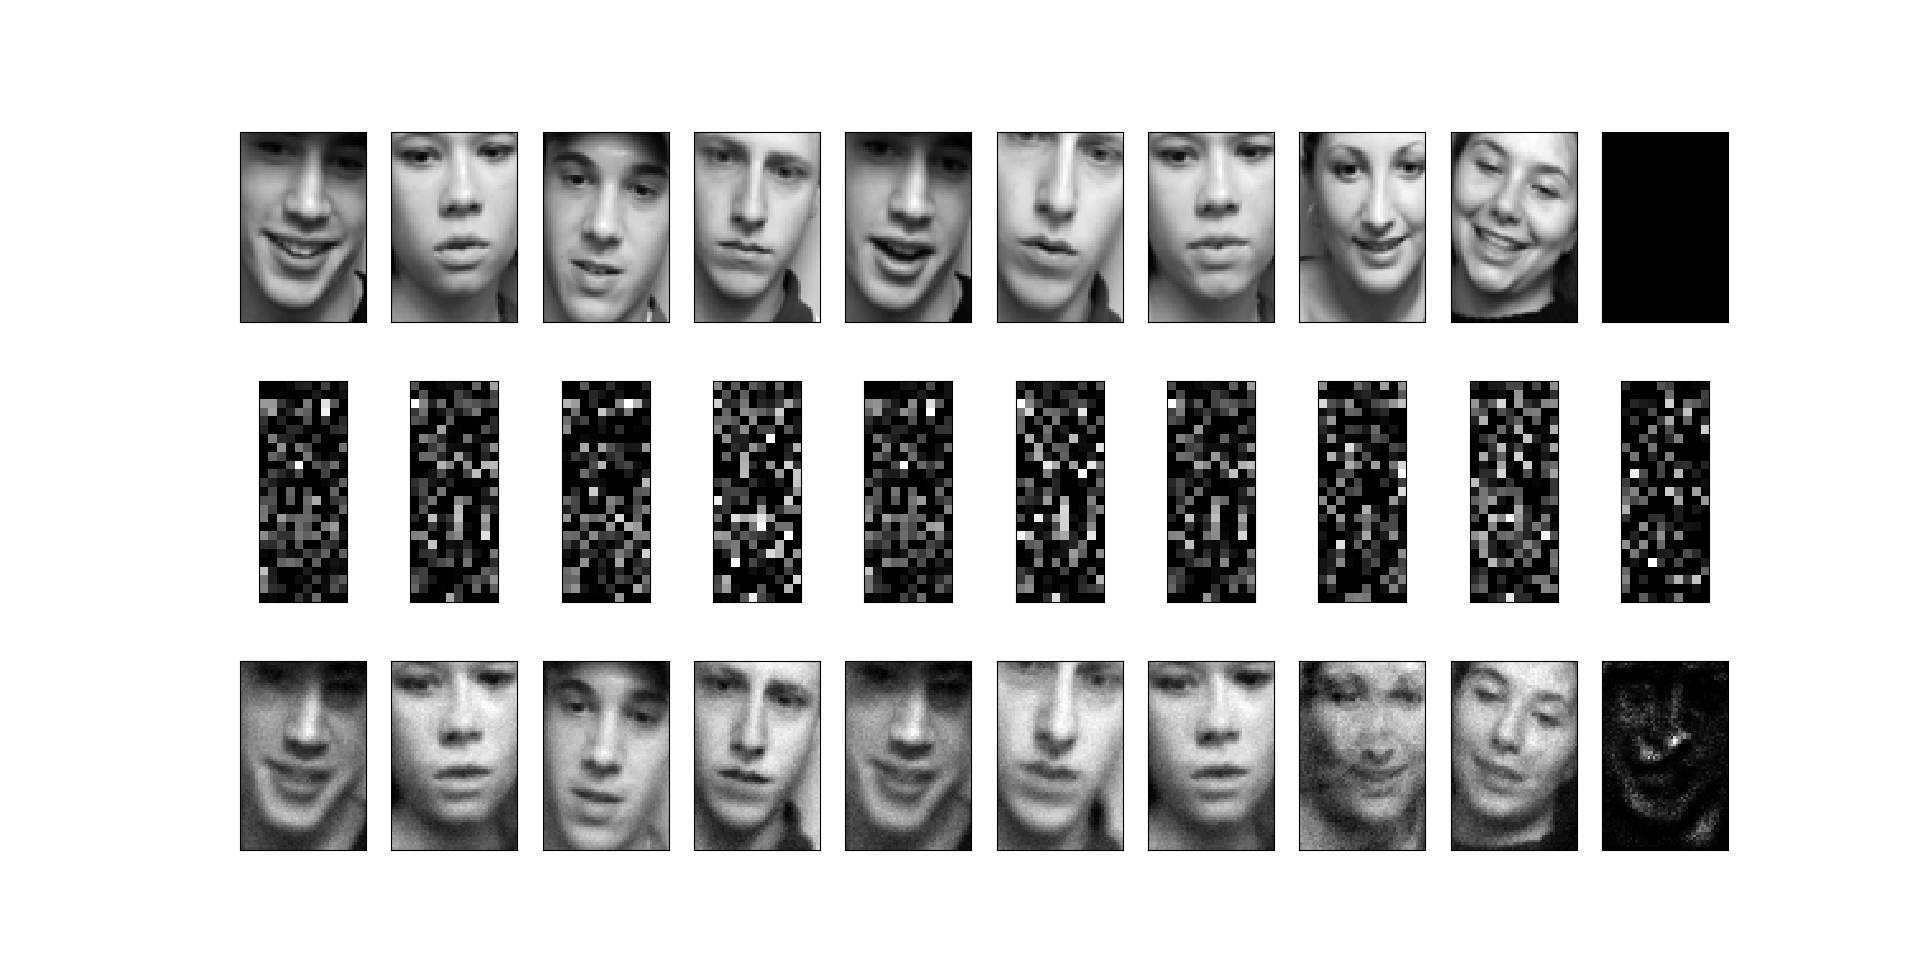
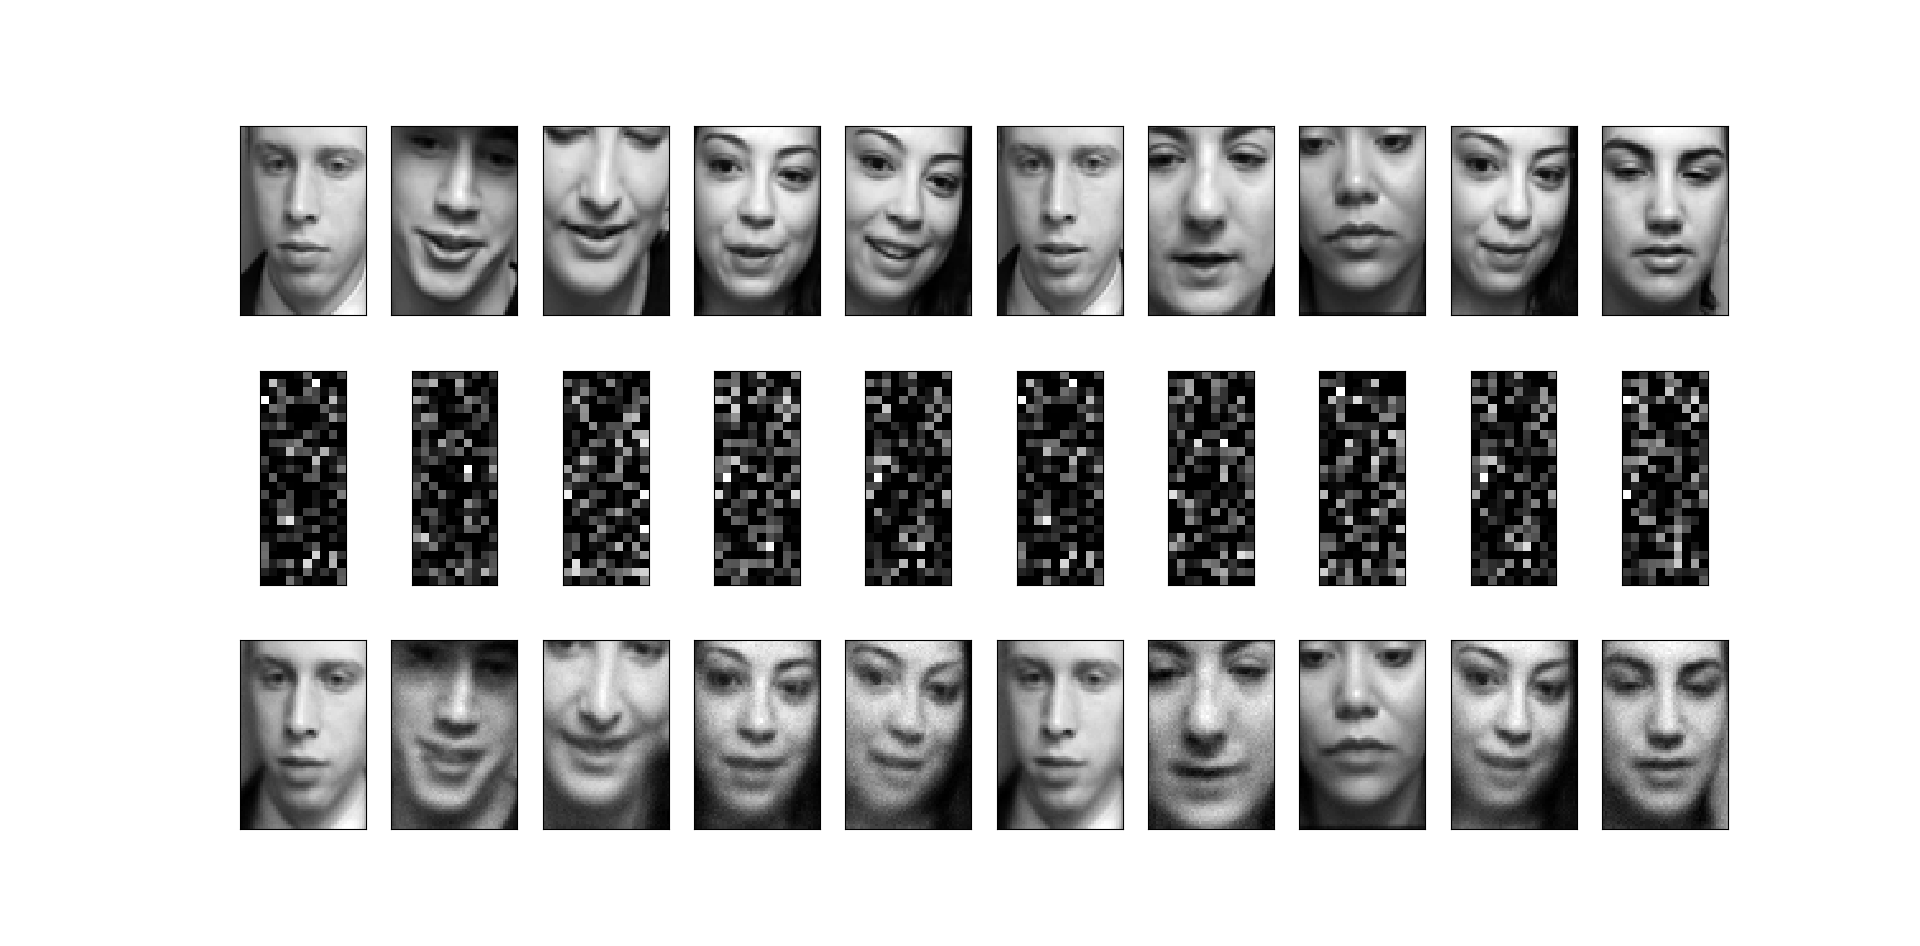
contiguous frames

diff --git a/src/autoencoder.py b/src/autoencoder.py
@@ -11,7 +11,42 @@ from src.utility import load_cuave
 
 
 class Autoencoder(object):
+    """
+    The base autoencoder implementation
+    ---
+    Attributes
+    -----------
+    _dataset_name: str [private]
+        a string indicating the dataset to use
+    _modality_name: str [private]
+        a string indicating the modality to use
+    X_train/X_test: np.array
+        a numpy array storing the training/test data (#num x dim)
+    y_label: np.array
+        a numpy array storing the label (#num x 1)
+    encoder/decoder: keras.models.Model()
+        the encoder/decoder part of the entire model
+    autoencoder: keras.models.Model()
+        the entire autoencoder model
+    w/h: int
+        width/height for input data (if applicable)
+    input_dim: int
+        dimensionality of input data (w x h)
+    hidden_dim: int
+        dimensionality of hidden layer (load config)
+    batch_size: int
+        batch size during training (load config)
+    epochs: int
+        epochs during training (load config)
+    save_dir
+        directory for model saving (load config)
+    """
+
     def __init__(self, dataset_name, modality_name):
+        """
+        # para dataset_name: which dataset to use 
+        # para modality_name: which modality to use
+        """
         self._dataset_name = dataset_name
         self._modality_name = modality_name
         self.X_train = None
@@ -29,15 +64,22 @@ class Autoencoder(object):
         self._prepare_data()
         self.input_dim = self.w * self.h
 
-    # flatten images to 1D array
     def _flatten(self, X, image=True):
+        """flatten images to 1D array [private]
+        # para X: entire training/test set (#num x dim(75*50))
         # para image: whether image or not
+        return X: flattened training/test set
+        """
         if image:
             X = X.astype('float32') / 255.
+        else:
+            X = np.array([x.reshape(self.w*self.h, 1) for x in X])
         X = X.reshape((len(X), np.prod(X.shape[1:])))
         return X
 
     def _prepare_toy_data(self):
+        """prepare some toy data (MNIST) for test of model [private]
+        """
         from keras.datasets import mnist
         (X_train, _), (X_test, _) = mnist.load_data()
         self.w, self.h = X_train[0].shape
@@ -45,6 +87,9 @@ class Autoencoder(object):
         self.X_test = self._flatten(X_test)
     
     def _prepare_data(self):
+        """prepare data for the model [private]
+        X_train/X_test should be modified individually based on modality
+        """
         if self._dataset_name == 'cuave':
             mfccs, audio, spec, frames_1, _, labels = load_cuave()
             if self._modality_name == 'mfcc':
@@ -52,7 +97,11 @@ class Autoencoder(object):
             elif self._modality_name == 'audio':
                 self.X_train, self.X_test, _, _ = train_test_split(audio, labels, test_size=0.25)
             elif self._modality_name == 'spectrogram':
-                self.X_train, self.X_test, _, _ = train_test_split(spec, labels, test_size=0.25)
+                Sxx = np.array(spec)[:,2]
+                self.X_train, self.X_test, _, _ = train_test_split(Sxx, labels, test_size=0.25)
+                self.w, self.h = self.X_train[0].shape
+                # flatten spectrograms to 1D array
+                self.X_train, self.X_test = self._flatten(self.X_train, image=False), self._flatten(self.X_test, image=False)
             elif self._modality_name == 'frame':
                 self.X_train, self.X_test, _, _ = train_test_split(frames_1, labels, test_size=0.25)
                 self.w, self.h = self.X_train[0].shape
@@ -62,8 +111,14 @@ class Autoencoder(object):
         elif self._dataset_name == 'avletter':
             self.X_train = None
             self.y_label = None
+        
+        print("Training data dimensionality", self.X_train.shape)
+        print("Test data dimensionality", self.X_test.shape)
+        print("data preparation done")
 
     def build_model(self):
+        """build (deep) autoencoder model
+        """
         # an input placeholder
         input_data = Input(shape=(self.input_dim,))
 
@@ -92,8 +147,11 @@ class Autoencoder(object):
         
         # configure the model
         self.autoencoder.compile(optimizer='adadelta', loss='binary_crossentropy')
+        print(self.autoencoder.summary())
     
     def train_model(self):
+        """train (deep) autoencoder model and save to external file
+        """
         self.autoencoder.fit(self.X_train, self.X_train,
                             epochs=self.epochs,
                             batch_size=self.batch_size,
@@ -102,10 +160,14 @@ class Autoencoder(object):
         self._save_model()
 
     def _save_model(self):
-        save_name = os.path.join(self.save_dir, '%s-e%s.h5' % (datetime.datetime.now().strftime('%d%m%Y-%H%M%S'), str(self.epochs)))
+        """save (deep) autoencoder model to (indicated) external file [private]
+        """
+        save_name = os.path.join(self.save_dir, '%s-%s-%d-%s.h5' % (self._dataset_name, self._modality_name, self.hidden_dim, datetime.datetime.now().strftime('%d%m%Y-%H%M%S')))
         self.autoencoder.save_weights(save_name)
     
     def load_model(self):
+        """load (deep) autoencoder model from external files
+        """
         weights_list = [f for f in os.listdir(self.save_dir) if os.path.isfile(os.path.join(self.save_dir, f))]
         print(weights_list)
         print("Here are the weights of pre-trained models")
@@ -122,10 +184,13 @@ class Autoencoder(object):
                 print("Wrong input! Please start over")
 
     def vis_model(self):
-        encoded_repres = self.encoder.predict(self.X_test)
-        decoded_repres = self.decoder.predict(encoded_repres)
-        n = 10
+        """visualize original/reconstructed data along with encoded representation
+        """
+        encoded_repres = self.encoder.predict(self.X_test)      # inference
+        decoded_repres = self.decoder.predict(encoded_repres)   # inference
+        n = 10 # number to visualize
         plt.figure(figsize=(30, 8))
+        
         for i in range(n):
             ax = plt.subplot(3, n, i+1)
             plt.imshow(self.X_test[i].reshape(self.w, self.h))
@@ -134,7 +199,7 @@ class Autoencoder(object):
             ax.get_yaxis().set_visible(False)
 
             ax = plt.subplot(3, n, i+1+n)
-            plt.imshow(encoded_repres[i].reshape(25, 10))
+            plt.imshow(encoded_repres[i].reshape(5, 4))
             plt.gray()
             ax.get_xaxis().set_visible(False)
             ax.get_yaxis().set_visible(False)

diff --git a/src/utility.py b/src/utility.py
@@ -17,12 +17,12 @@ def load_cuave(verbose=False):
     processed_dir = data_config['data']['processed']['cuave']
     if len(os.listdir(processed_dir)) == 6:
         print("processed data exist\nstart loading processed data")
-        mfcc = np.loadtxt(os.path.join(processed_dir, 'mfccs.csv'), delimiter=',')
+        mfcc = np.load(os.path.join(processed_dir, 'mfccs.npy'))
         audio = np.load(os.path.join(processed_dir, 'audio.npy'))
         spec = np.load(os.path.join(processed_dir, 'spectrogram.npy'))
         frame_1 = np.load(os.path.join(processed_dir, 'frames_1.npy'))
         frame_2 = np.load(os.path.join(processed_dir, 'frames_2.npy'))
-        label = np.loadtxt(os.path.join(processed_dir, 'labels.csv'), delimiter=',')
+        label = np.load(os.path.join(processed_dir, 'labels.npy'))
 
     else:
         mfcc, audio, spec, frame_1, frame_2, label = [], [], [], [], [], []
@@ -31,21 +31,19 @@ def load_cuave(verbose=False):
             each = loadmat(os.path.join(data_config['data']['cuave'], filename))
             # load the label
             label.extend(each['labels'][0])
-            # load vocal features (mfcc)
             each_mfcc = each['mfccs']
-            for i in range(len(each_mfcc[0])):
-                mfcc.append(each_mfcc[:,i])
-            # load vocal modality data (along with spectrogram)
             each_audio = each['audioIndexed']
             fs = each['fs'][0][0]
-            for i in range(len(each_audio[0])):
+            each_frame_1 = each['video'][0][0]
+            each_frame_2 = each['video'][0][1]
+            for i in range(len(each['labels'][0])):
+                # load vocal features (mfcc)
+                mfcc.append(each_mfcc[:,i])
+                # load vocal modality data (along with spectrogram)
                 audio.append(each_audio[:,i])
                 f, t, Sxx = spectrogram(each_audio[:,i], fs=fs)
                 spec.append((f, t, Sxx))
-            # load visual modality data
-            each_frame_1 = each['video'][0][0]
-            each_frame_2 = each['video'][0][1]
-            for i in range(len(each_frame_1[0][0])):
+                # load visual modality data
                 frame_1.append(each_frame_1[:,:,i])
                 frame_2.append(each_frame_2[:,:,i])
             print(filename, "read")
@@ -58,14 +56,35 @@ def load_cuave(verbose=False):
             print(frame_1[:10])
             print(frame_2[:10])
 
+        # # 5 contiguous frames to use as input
+        # shape = (int(len(label)/5), 5)
+        # label = np.array(label).reshape(shape)
+        # mfcc = np.array(mfcc).reshape(shape)
+        # audio = np.array(audio).reshape(shape)
+        # spec = np.array(spec).reshape(shape)
+        # frame_1 = np.array(frame_1).reshape(shape)
+        # frame_2 = np.array(frame_2).reshape(shape)
+
+        # drop_row_idx = []
+        # for k in range(label.shape[0]):
+        #     if np.unique(label[k]).size == 2:
+        #         drop_row_idx.append(k)
+        
+        # label = np.delete(label, (drop_row_idx), axis=0)
+        # mfcc = np.delete(mfcc, (drop_row_idx), axis=0)
+        # audio = np.delete(audio, (drop_row_idx), axis=0)
+        # spec = np.delete(spec, (drop_row_idx), axis=0)
+        # frame_1 = np.delete(frame_1, (drop_row_idx), axis=0)
+        # frame_2 = np.delete(frame_2, (drop_row_idx), axis=0)
+
         # write processed data to external files
         print("no processed data exist\nstart writing processed data")
-        np.savetxt(os.path.join(processed_dir, 'mfccs.csv'), mfcc, delimiter=',')
+        np.save(os.path.join(processed_dir, 'mfccs'), mfcc)
         np.save(os.path.join(processed_dir, 'audio'), audio)
         np.save(os.path.join(processed_dir, 'spectrogram'), spec)
         np.save(os.path.join(processed_dir, 'frames_1'), frame_1)
         np.save(os.path.join(processed_dir, 'frames_2'), frame_2)
-        np.savetxt(os.path.join(processed_dir, 'labels.csv'), label, delimiter=',', fmt='%d')
+        np.save(os.path.join(processed_dir, 'labels'), label)
 
     return mfcc, audio, spec, frame_1, frame_2, label
 
@@ -106,7 +125,7 @@ def visualize_frame(dataset, write=False):
     # para write: whether or not to write images to external files
     filename = data_config['data']['visualized']['frames'][dataset]
     frames = np.load(filename)
-    frame_1, frame_2, frame_3, frame_4 = frames[0], frames[1000], frames[2000], frames[3000]
+    frame_1, frame_2, frame_3, frame_4 = frames[10], frames[1], frames[20], frames[50]
     if dataset == 'avletter':
         frame_1, frame_2, frame_3, frame_4 = frame_1.transpose(), frame_2.transpose(), frame_3.transpose(), frame_4.transpose()
 

diff --git a/main.py b/main.py
@@ -2,12 +2,13 @@ from src.utility import load_cuave, load_avletter, visualize_frame, visualize_sp
 from src.autoencoder import Autoencoder
 
 def main():
-    # load_cuave(verbose=True)
+    load_cuave(verbose=True)
+    # visualize_frame('cuave_2')
     # visualize_spectrogram('cuave', write=True)
-    ae = Autoencoder('cuave','frame')
-    ae.build_model()
-    ae.train_model()
-    ae.vis_model()
+    # ae = Autoencoder('cuave','spectrogram')
+    # ae.build_model()
+    # ae.load_model()
+    # ae.vis_model()
 
 if __name__ == "__main__":
     main()

diff --git a/README.md b/README.md
@@ -2,8 +2,52 @@
 
 Multimodal signal processing has become an important topic of research for overcoming certain problems of audio-only speech processing. Audio-visual speech recognition is one area with great potential.
 
-## Autoencoder setup
+## background
+
+In the original paper, [ngiam2011](https://people.csail.mit.edu/khosla/papers/icml2011_ngiam.pdf), they demonstrated **cross modality feature learning**, where better features for one modality can be learned if multiple modalities are present at feature learning time. In their experiment, the overall task was divided into three phases:
+* feature learning
+* supervised training (*the simple linear classifier*)
+* testing (*the simple linear classifier*)
+
+In terms of different learning settings, they considered the following options:
+* multimodal fusion
+* cross-modality learning
+* shared representation learning
+
+The detailed difference between these three settings are shown as below:
+| | feature learning | supervised learning | testing |
+| -- | -- | -- | -- |
+| classic deep learning | A or V | A or V | A or V |
+| multimodal fusion | A + V | A + V | A + V |
+| cross-modality learning | A + V | V | V |
+|                         | A + V | A | A |
+| shared representation learning | A + V | A | V |
+|                               | A + V | V | A |
+
+
+## autoencoder setup
 
 From the similar example, [decoupled bimodal learning](https://github.com/Jakobovski/decoupled-multimodal-learning/blob/master/README.md), vocal features were converted into 64x64 spectrograms and visual features into 28x28 pixels. Then, the dimensionality reduction was completed via a deep denoising autoencoder of [2048, 1024, 256, 64] for visual features, and [4096, 512, 64] for vocal features.
 
 In the CUAVE dataset, video frames are 75x50 pixels and raw audio waveforms are 534 in length.
+
+## learning architecture
+
+Separately train a RBM model for audio and video, and this model as a baseline for the later models.
+
+**multimodal fusion**
+
+Train a multimodal model by concatenating audio and video data.
+
+> While this approach jointly models the distribution of the audio and video data, it is limited as a shallow model. Since the correlations between the audio and video data are highly non-linear, it is hard for a RBM to learn these correlations and form multimodal representations. In particular, they (Ngiam2011) found the learning a shallow bimodal RBM results in hidden units that have a strong connections to variables from individual modality but few units that connect across the modalities.
+
+**cross-modality learning**
+
+Motivated by deep learning methods, greedily train a RBM over the pre-trained layers for each modality. 
+
+> By representing the data through learned first layer representations, it can be easier for the model to learn higher-order correlations across modalities. 
+> There is no explicit objective for the models to discover correlations across the modalities. Moreover, the models are clumsy to use in a cross modality learning setting where only one modality is present during supervised learning and testing (with only one single modality present, one would need to integrate out the unobserved visible variables to perform inference). 
+
+
+**shared representation learning**
+

diff --git a/docs/dataset.md b/docs/dataset.md
@@ -32,7 +32,7 @@ The video frames can be visualized via ```visualize_frame()``` in ```utility.py`
 
 ## spectrogram
 
-A spectrogram is a visual representation of the spectrum of frequencies of a signal as it varies with time. A common format is a graph with two geometric dimensions: one axis represents time, the other axis is frequency; a third dimension indicating the amplitude of a particular frequency at a particular time is represented by the intensity or color of each point in the image.
+A spectrogram is a visual representation of the spectrum of frequencies of a signal as it varies with time. A common format is a graph with two geometric dimensions: one axis represents time, the other axis is frequency; a third dimension indicating the amplitude of a particular frequency at a particular time is represented by the intensity or color of each point in the image. The dimension for spectrogram in CUAVE is 129x2. 
 
 ![](../images/cuave_spectrogram.png)
 
@@ -50,7 +50,7 @@ The frame file ```F2_Bill-lips.mat``` is a dictionary, which has two key-value p
 Some examples of the lip regions are visualized as below.
 | 1st | 2nd | 3rd | 4th |
 | --  | --  | --  | --  |
-| ![](../images/avletter_frame_1.png) | ![](../images/avletter_frame_2.png) | ![](../images/avletter_frame_3.png) | ![](../images/avletter_frame_4.png)
+| ![](../images/avletter_frame_1.png) | ![](../images/avletter_frame_2.png) | ![](../images/avletter_frame_3.png) | ![](../images/avletter_frame_4.png) |
 
 ## tree-structure
 
